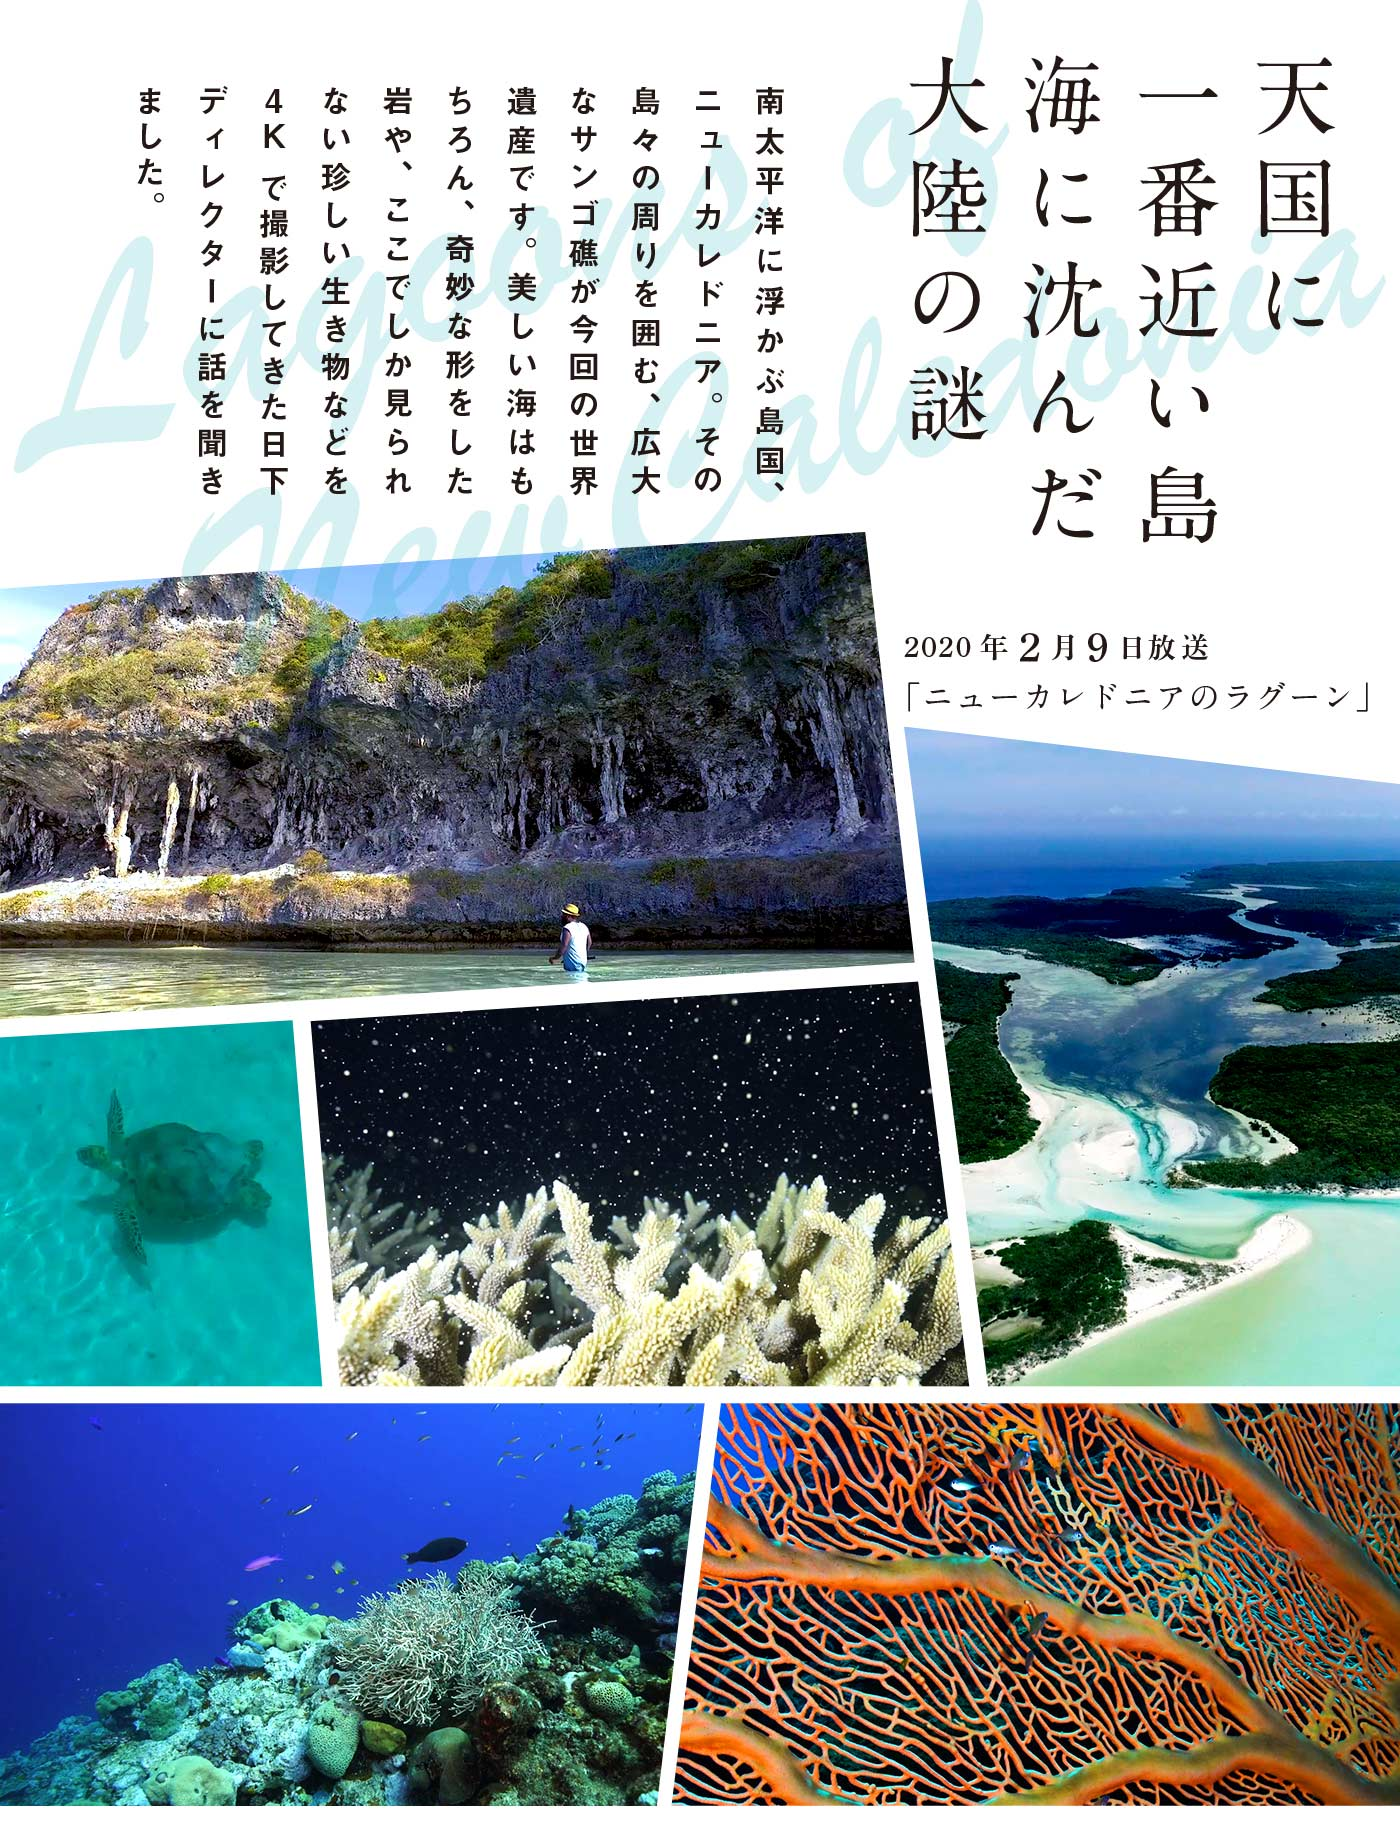
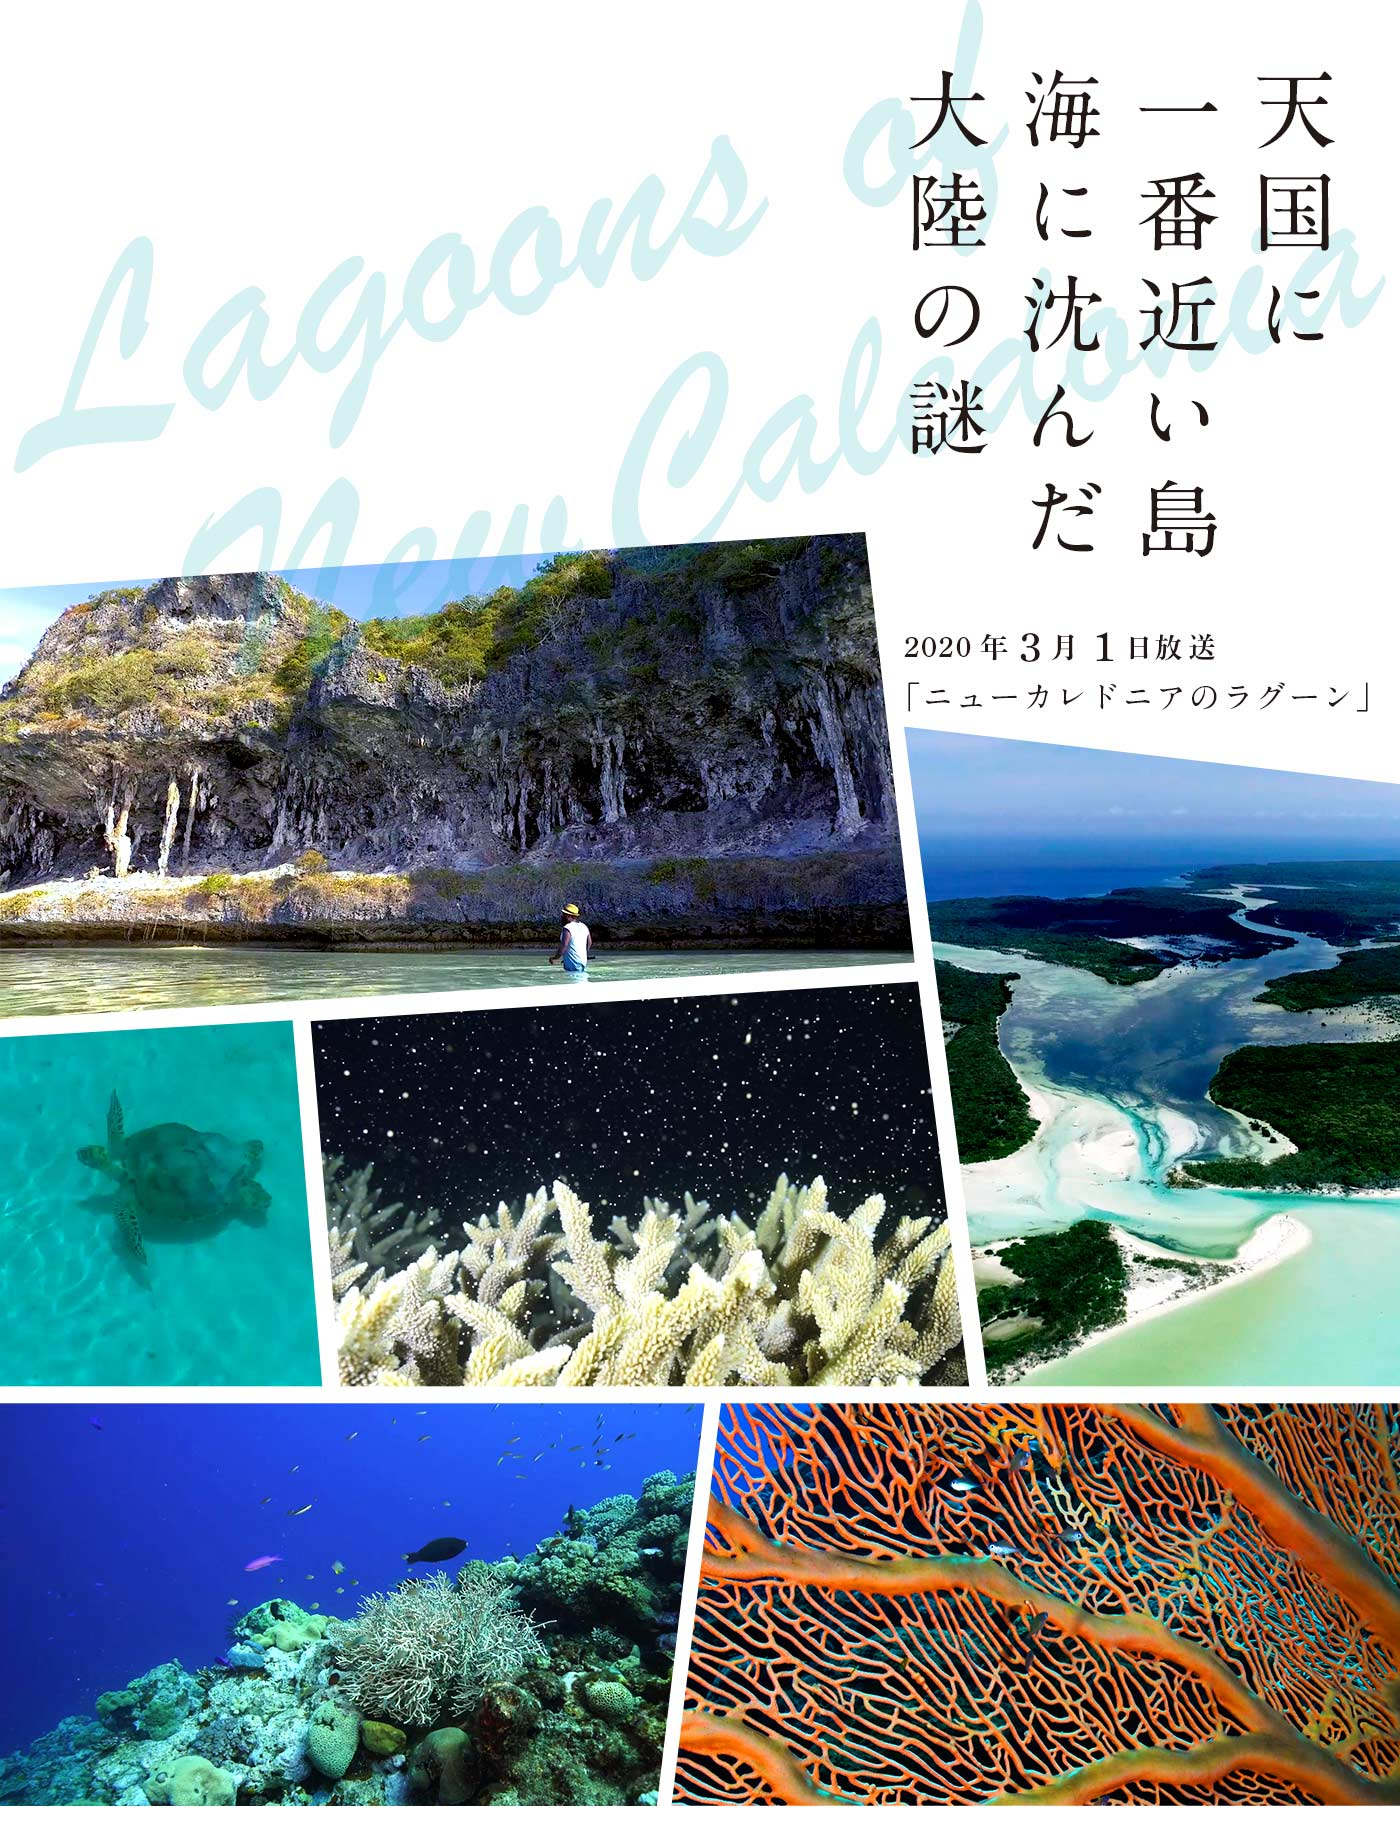
[update2002] modify date

diff --git a/feature/2020/202002_01.html b/feature/2020/202002_01.html
@@ -32,7 +32,7 @@
 <!-- ▼ Contents Area -->
 <div id="featureWrapper">
 	<div class="mainCoverArea2002">
-		<h2 class="featureAlt">2020年2月9日「ニューカレドニアのラグーン」</h2>
+		<h2 class="featureAlt">2020年3月1日「ニューカレドニアのラグーン」</h2>
 	    <img src="../../img/feature/2020/2002/headerimage2_dammy.gif" onContextmenu="return false" alt="" class="feature_dammy" />
 	    <h3 class="featureAlt">天国に一番近い島 海に沈んだ大陸の謎</h3>
 	    <p class="alt">南太平洋に浮かぶ島国、ニューカレドニア。その島々の周りを囲む、広大なサンゴ礁が今回の世界遺産です。美しい海はもちろん、奇妙な形をした岩や、ここでしか見られない珍しい生き物などを4Kで撮影してきた日下ディレクターに話を聞きました。</p>
@@ -101,7 +101,7 @@
 
     <div class="featureInterviewArea int2002" style="padding-top:30px;">
         <p class="featureAsk">──今回さまざまな自然を取材してきたということですが、どんな場所の映像が見られるのでしょうか？</p>
-        <p class="featureAns">日下：まず、グランドテール東の沖に浮かぶウベア島にある「レキンの断崖」です。ここは、土地が隆起してできた崖で、高さ40mにもなっています。サンゴ礁が海の上にむき出しになった光景は、地殻変動によってできたものなのです。レキンの断崖があるオーストラリアプレートと、太平洋プレートがぶつかっていて、いまでも少しずつ隆起しているということです。また、グランドテールのヤンゲンにも奇妙な岩の景色があります。海中での噴火によっておよそ5000万年前にできた石灰岩が、地殻変動で隆起してできた岩山で、尖った岩がたくさん集まった様子は圧巻です。</p>
+        <p class="featureAns">日下：まず、グランドテール東の沖に浮かぶウベア島にある「レキンの断崖」です。ここは、土地が隆起してできた崖で、高さ40mにもなっています。サンゴ礁が石灰岩となって陸上に姿を現した光景は、地殻変動によってできたものなのです。レキンの断崖があるオーストラリアプレートと、太平洋プレートがぶつかっていて、いまでも少しずつ隆起しているということです。また、グランドテールのヤンゲンにも奇妙な岩の景色があります。5000万年前の浅い海でできたサンゴ礁が石灰岩となり、地殻変動で隆起してできた岩山で、尖った岩がたくさん集まった様子は圧巻です。</p>
     </div><!-- featureInterviewArea -->
 
 
@@ -175,8 +175,6 @@
 <script src="/um/v7/js/gh_smp.js"></script>
 <script src="/um/library/jquery/jquery-3.3.1.min.js"></script>
 <script src="../../js/common.js"></script>
-<script src="../../js/jquery-1.9.1.min.js"></script>
-<script src="../../js/feature2015.js"></script>
 <script src="/um/library/js/lazyload_ver2.js"></script>
 <script>LazyLoad();</script>
 </body>

diff --git a/feature/2020/202002_02.html b/feature/2020/202002_02.html
@@ -32,7 +32,7 @@
 <!-- ▼ Contents Area -->
 <div id="featureWrapper">
 	<div class="headerImage2002">
-		<h2 class="featureAlt">2020年2月9日「ニューカレドニアのラグーン」</h2>
+		<h2 class="featureAlt">2020年3月1日「ニューカレドニアのラグーン」</h2>
 	    <img src="../../img/feature/2020/2002/headerimage_dammy.gif" onContextmenu="return false" alt="" class="feature_dammy" />
 	</div><!-- headerImage2002 -->
 
@@ -149,8 +149,6 @@
 <script src="/um/v7/js/gh_smp.js"></script>
 <script src="/um/library/jquery/jquery-3.3.1.min.js"></script>
 <script src="../../js/common.js"></script>
-<script src="../../js/jquery-1.9.1.min.js"></script>
-<script src="../../js/feature2015.js"></script>
 <script src="/um/library/js/lazyload_ver2.js"></script>
 <script>LazyLoad();</script>
 </body>
